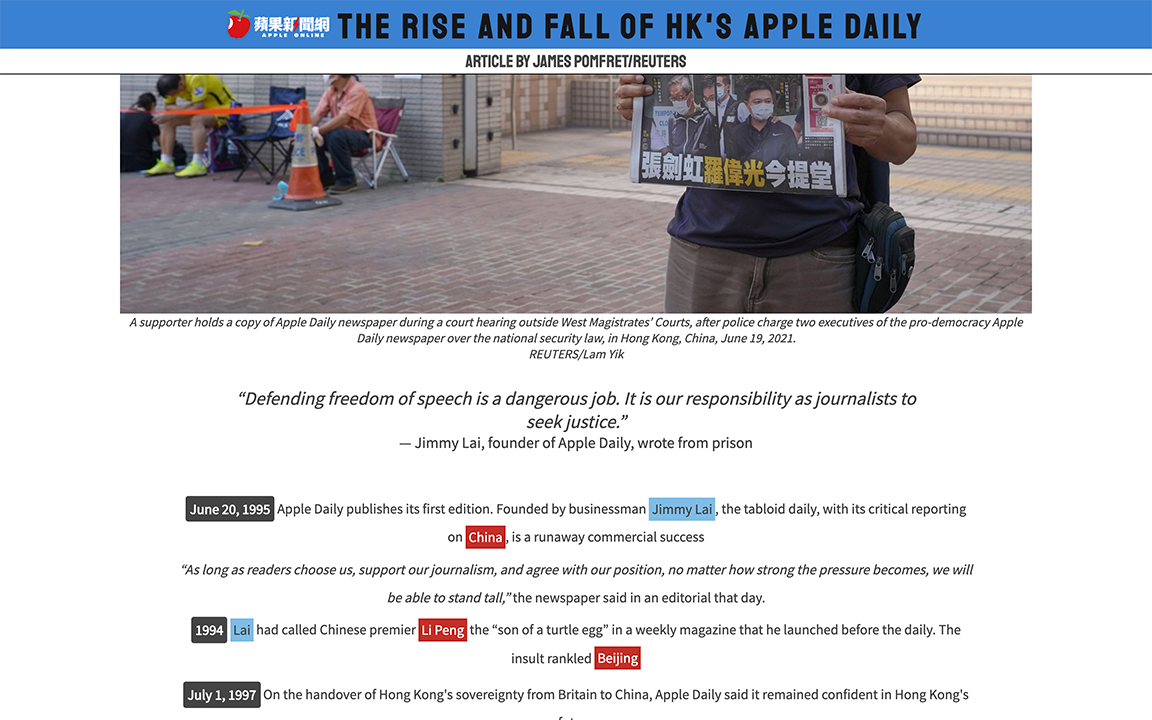
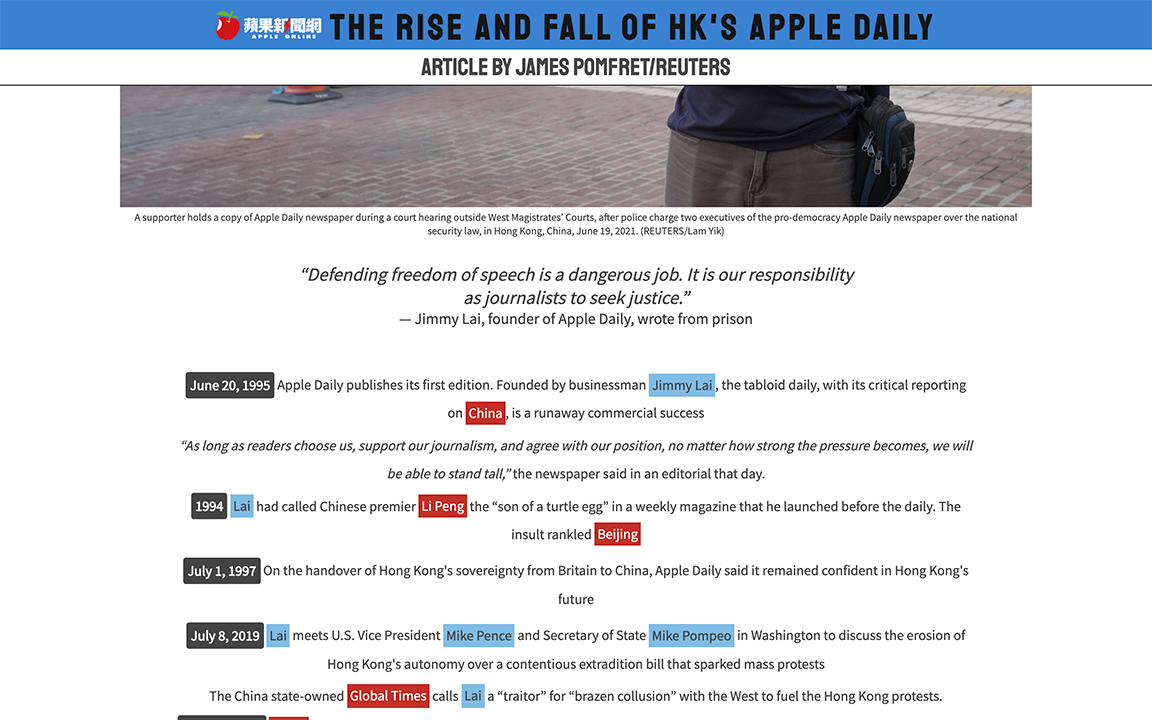
update image for README.md

diff --git a/README.md b/README.md
@@ -12,9 +12,10 @@ This app is built on [codepen](https://codepen.io/) and export to distribute for
 https://scc416.github.io/rise-and-fall-of-apple-daily/
 
 ## Final Product
-![initial](./docs/initial.png )
+![initial](./docs/initial.png)
 Initial view with [vex](https://github.hubspot.com/vex/docs/welcome/)
 ![content](./docs/content.png)
+![mobile](./docs/mobile.png)
 
 ## Dependencies
 - [vex](https://github.hubspot.com/vex/docs/welcome/): dialog
